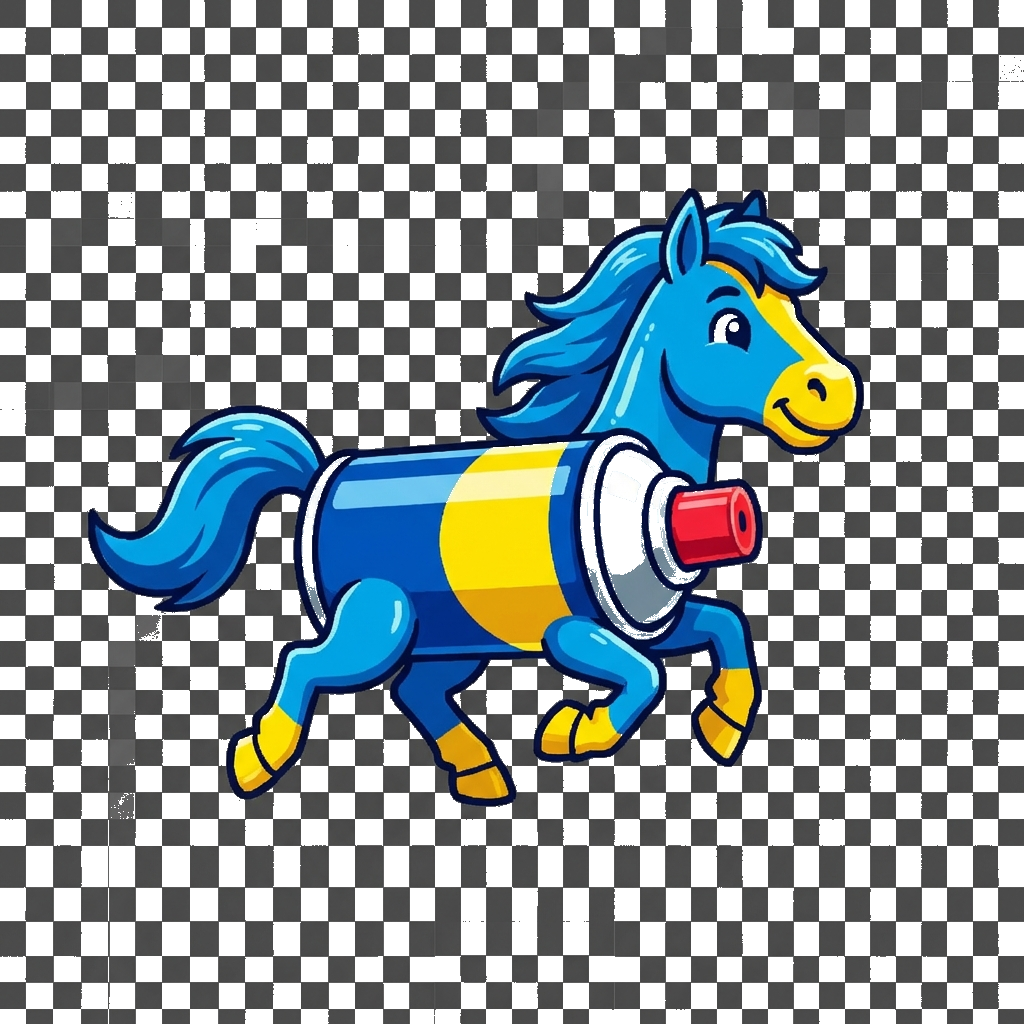
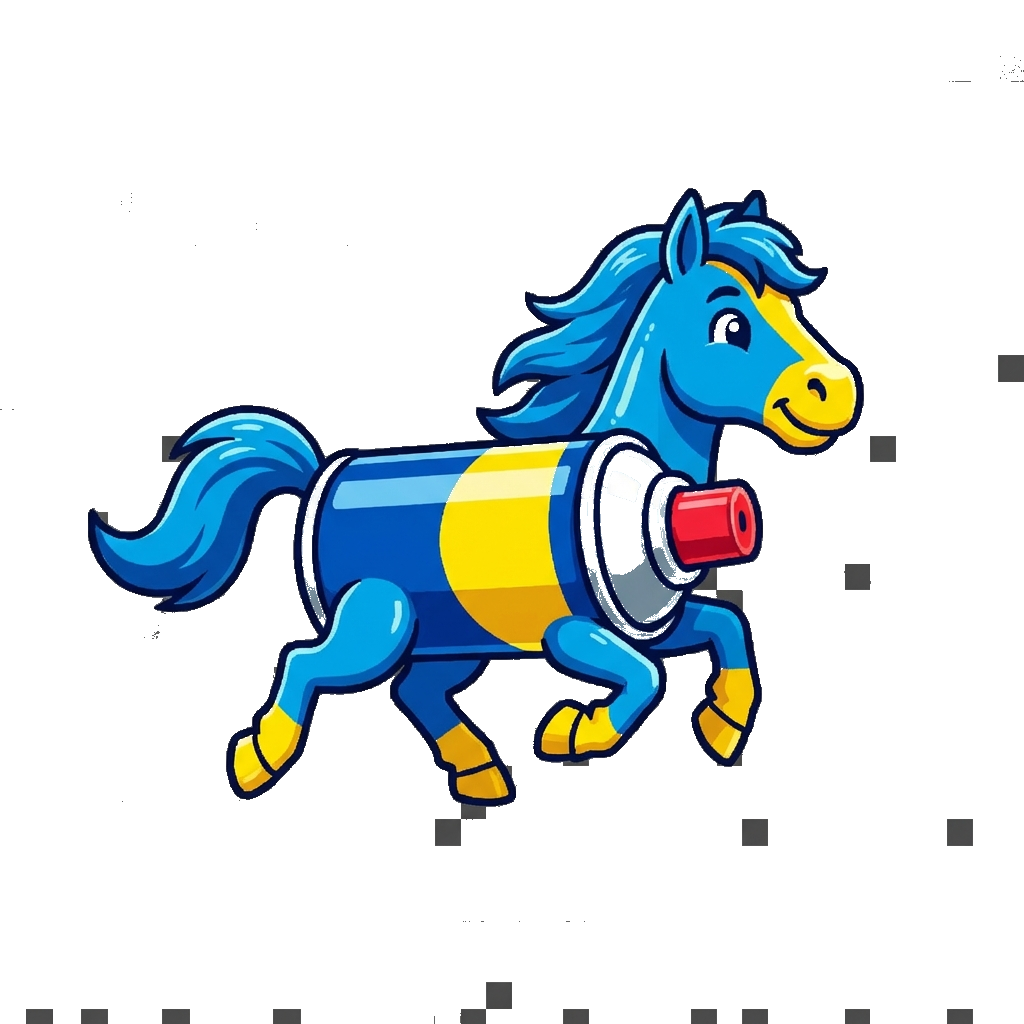
fix: 優化出題頻率、明昌路徑自動顯示、改進馬匹去背

diff --git a/templates/host.html b/templates/host.html
@@ -2255,6 +2255,14 @@
             applyTrackBackground(data.track_background);
             // Update avatar folder for correct image paths
             currentAvatarFolder = data.avatar_folder || '';
+
+            // Auto-show debug path for Mingchang theme inspection
+            if (data.theme_id === 'mingchang') {
+                console.log('Mingchang theme active - showing debug path');
+                setTimeout(() => showDebugPath(), 500); // Small delay to ensure render
+            } else {
+                hideDebugPath();
+            }
         });
 
         socket.on('current_theme', (data) => {

diff --git a/server_render.py b/server_render.py
@@ -137,7 +137,8 @@ def on_set_theme(data):
     theme_id = data.get('theme_id', DEFAULT_THEME)
     theme = get_theme(theme_id)
     GAME_STATE['theme'] = theme_id
-    print(f"Theme set to: {theme['name']} ({theme_id})")
+    print(f"[THEME] Theme set to: {theme['name']} ({theme_id})")
+    print(f"[THEME] GAME_STATE['theme'] is now: {GAME_STATE['theme']}")
     
     # Broadcast theme change to all clients
     emit('theme_changed', {
@@ -651,9 +652,9 @@ def quiz_spawner():
     
     while GAME_STATE['status'] == 'RACING' and TASK_FLAGS['quiz_running']:
         # Dynamic interval based on player count: more players = faster questions
-        # With 1-2 players: 4-6s, with 10 players: ~1.2-2s
+        # With 1-2 players: 2-3s (was 4-6s), with 10 players: ~0.6-1s
         player_count = max(1, len(PLAYERS))
-        base_interval = 4.0 / (player_count ** 0.5)  # Scale with sqrt of players
+        base_interval = 2.0 / (player_count ** 0.5)  # Scale with sqrt of players, faster base
         interval = random.uniform(base_interval, base_interval * 1.5)
         eventlet.sleep(max(1.0, interval))  # Minimum 1 second between questions
         if GAME_STATE['status'] != 'RACING':
